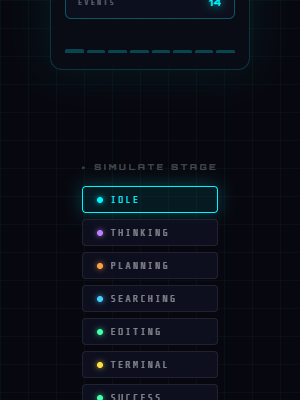
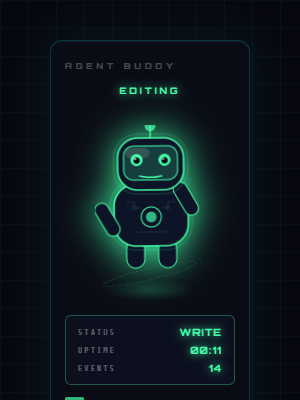
Update screenshots with hidden controls and improve generation script

diff --git a/generate-screenshots.js b/generate-screenshots.js
@@ -1,0 +1,72 @@
+const puppeteer = require('puppeteer');
+const path = require('path');
+const fs = require('fs');
+
+const delay = (ms) => new Promise(resolve => setTimeout(resolve, ms));
+
+const screenshotsDir = path.join(__dirname, 'media');
+
+// Ensure media directory exists
+if (!fs.existsSync(screenshotsDir)) {
+  fs.mkdirSync(screenshotsDir, { recursive: true });
+}
+
+(async () => {
+  const browser = await puppeteer.launch({ headless: 'new' });
+  const page = await browser.newPage();
+  
+  // Set viewport to match VS Code panel
+  await page.setViewport({ width: 300, height: 400 });
+  
+  // Navigate to the preview file
+  const previewPath = `file://${path.join(__dirname, 'agent-buddy-preview.html')}`;
+  await page.goto(previewPath, { waitUntil: 'networkidle0' });
+  
+  // Wait for the page to be ready
+  await delay(2000);
+  
+  // Hide the controls (simulate stage buttons)
+  await page.evaluate(() => {
+    const controls = document.querySelector('.controls');
+    if (controls) {
+      controls.style.display = 'none';
+    }
+  });
+  
+  const screenshots = [
+    { name: 'screenshot-idle.png', clicks: 0 },
+    { name: 'screenshot-success.png', clicks: 6 },
+    { name: 'screenshot-error.png', clicks: 7 },
+    { name: 'screenshot-terminal.png', clicks: 5 }
+  ];
+  
+  // Take screenshots by cycling through states
+  for (const screenshot of screenshots) {
+    try {
+      // Get the SVG element to click (cycles through stages)
+      const svgElement = await page.$('.buddy-svg');
+      
+      if (svgElement && screenshot.clicks > 0) {
+        for (let i = 0; i < screenshot.clicks; i++) {
+          await page.click('.buddy-svg');
+          await delay(500);
+        }
+      }
+      
+      await delay(500);
+      
+      // Take the screenshot
+      await page.screenshot({
+        path: path.join(screenshotsDir, screenshot.name),
+        type: 'png'
+      });
+      
+      console.log(`✓ Generated ${screenshot.name}`);
+    } catch (error) {
+      console.error(`✗ Failed to generate ${screenshot.name}:`, error.message);
+    }
+  }
+  
+  await browser.close();
+  console.log('\nScreenshots generated in media/ directory');
+})();
